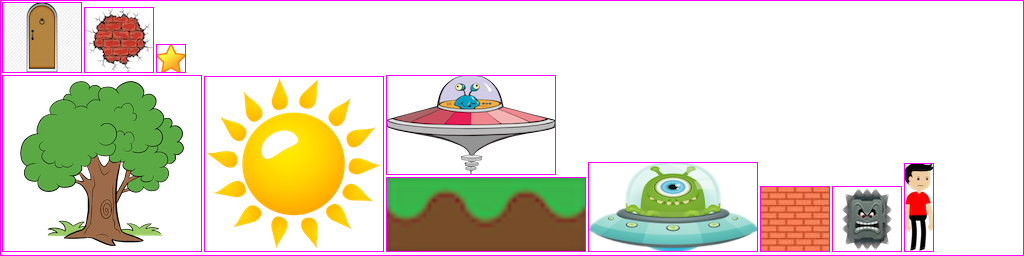
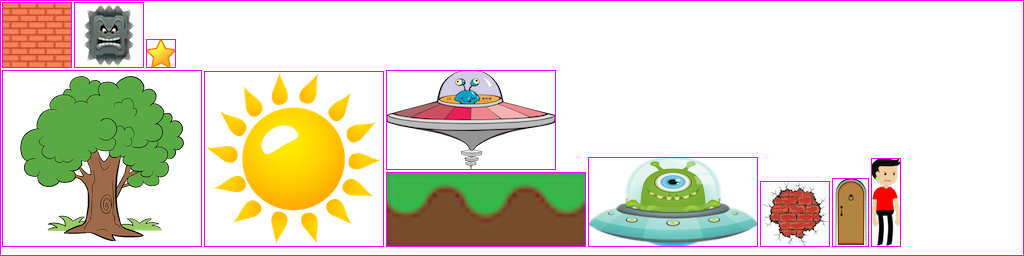
added asset level decoration class to Assets

Changed region(s): [[0.0, 0.0, 0.9375, 1.0], [0.0, 0.5, 0.0625, 0.5625]]

diff --git a/core/src/com/packtpub/libgdx/blockdude/game/Assets.java b/core/src/com/packtpub/libgdx/blockdude/game/Assets.java
@@ -71,6 +71,28 @@ public class Assets implements Disposable, AssetErrorListener
 	}
 	
 	/**
+	 * Created by Philip Deppen (Milestone 2, 11/5/18)
+	 * decorates level
+	 */
+	public class AssetLevelDecoration
+	{
+		public final AtlasRegion ufo01;
+		public final AtlasRegion ufo02;
+		public final AtlasRegion tree;
+		public final AtlasRegion ground;
+		public final AtlasRegion sun;
+		
+		public AssetLevelDecoration(TextureAtlas atlas)
+		{
+			ufo01 = atlas.findRegion("ufo1");
+			ufo02 = atlas.findRegion("ufo2");
+			tree = atlas.findRegion("tree");
+			ground = atlas.findRegion("ground");
+			sun = atlas.findRegion("sun");
+		}
+	}
+	
+	/**
 	 * Created by Philip Deppen (Milestone 1, 10/30/18)
 	 * inner class
 	 */
@@ -155,6 +177,7 @@ public class Assets implements Disposable, AssetErrorListener
 		}
 	}
 	
+
 	/**
 	 * Created by Philip Deppen (Milestone 1, 10/30/18)
 	 * Handles an error

diff --git a/core/src/com/packtpub/libgdx/blockdude/game/WorldController.java b/core/src/com/packtpub/libgdx/blockdude/game/WorldController.java
@@ -62,6 +62,7 @@ public class WorldController extends InputAdapter
 	
 	/**
 	 * Created by Philip Deppen (Milestone 1, 10/30/18, issue 13)
+	 * Edited by Philip Deppen (Milestone 2, 11/5/18, issue 20)
 	 * creates test sprites
 	 */
 	private void initTestObjects()
@@ -76,6 +77,7 @@ public class WorldController extends InputAdapter
 		regions.add(Assets.instance.block.block);
 		regions.add(Assets.instance.brokenBlock.brokenBlock);
 		regions.add(Assets.instance.movingBlock.movingBlock);
+		regions.add(Assets.instance.door.door);
 		
 		// Create new sprites using the just created texture
 		for (int i = 0; i < testSprites.length; i++) {

diff --git a/desktop/src/com/mygdx/game/desktop/DesktopLauncher.java b/desktop/src/com/mygdx/game/desktop/DesktopLauncher.java
@@ -12,7 +12,7 @@ import com.badlogic.gdx.tools.texturepacker.TexturePacker.Settings;
 
 public class DesktopLauncher 
 {
-	private static boolean rebuildAtlas = false;
+	private static boolean rebuildAtlas = true;
 	private static boolean drawDebugOutline = true;
 	
 	public static void main (String[] arg) 
